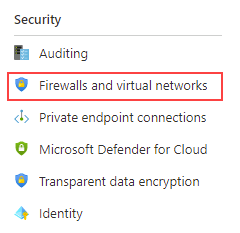
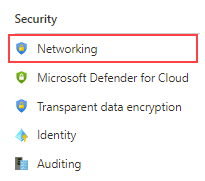
Enable access update

diff --git a/Instructions/Labs/02-provision-sql-database.md b/Instructions/Labs/02-provision-sql-database.md
@@ -125,15 +125,15 @@ As a database administrator for AdventureWorks, you will set up a new SQL Databa
 
 ## Enable access to an Azure SQL Database
 
-1. From the **SQL database** page, click on the link for the server name in the top section:
+1. From the **SQL database** page, select the **Overview** section, and then select the link for the server name in the top section:
 
     ![Picture 13](../images/dp-300-module-02-lab-19.png)
 
-1. On the SQL servers navigation blade, click **Firewalls and virtual networks** under **Security**
+1. On the SQL servers navigation blade, select **Networking** under the **Security** section.
 
     ![Picture 14](../images/dp-300-module-02-lab-20.png)
 
-1. Set **Allow Azure services and resources to access this server** to **Yes**, and then click **Save**.
+1. On the **Public access** tab, check the **Allow Azure services and resources to access this server** property, and then click **Save**.
 
     ![Picture 15](../images/dp-300-module-02-lab-21.png)
 
